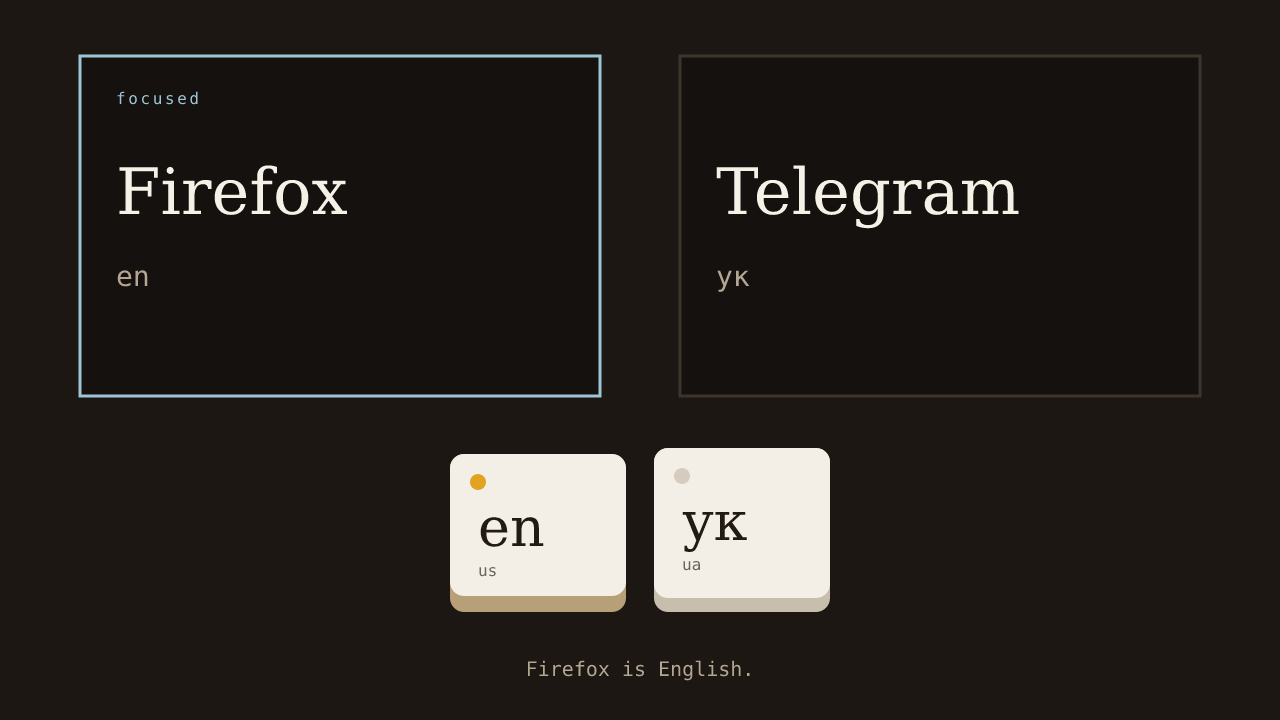
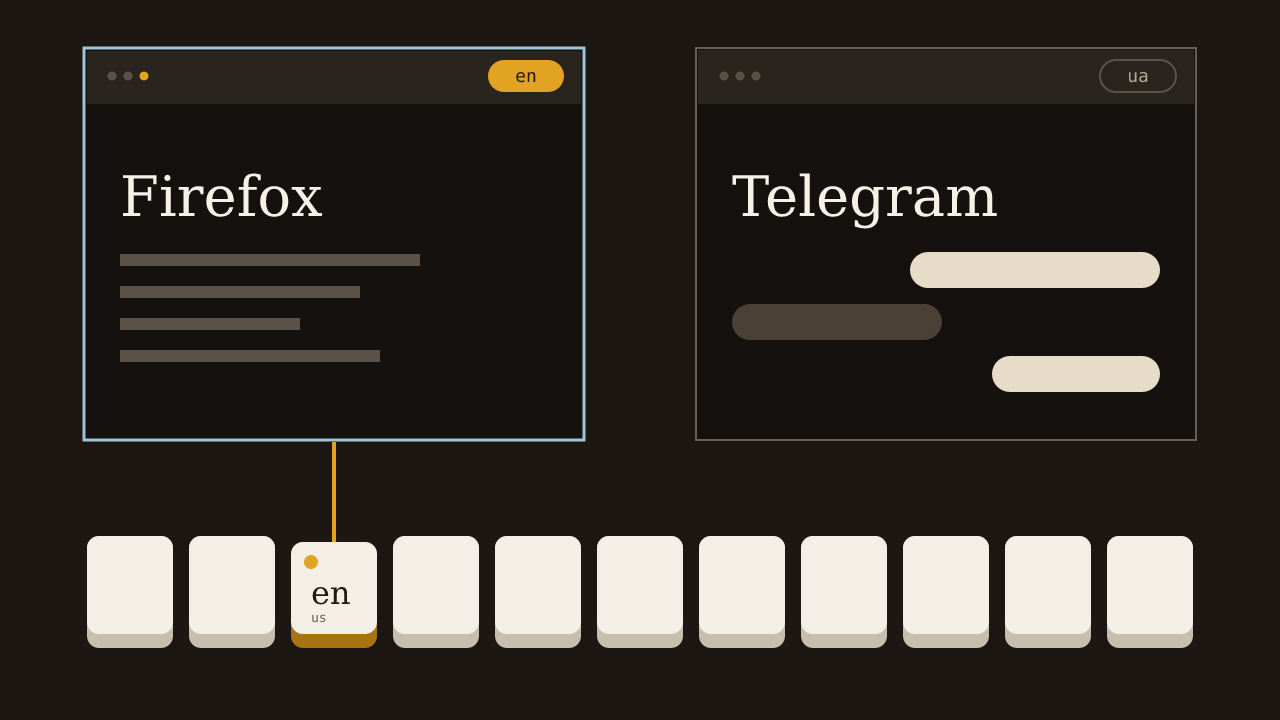
docs: tie the lit key to the focused window

diff --git a/README.md b/README.md
@@ -1,10 +1,10 @@
 <div align="center">
 
-<img src="assets/banner.png" alt="Firefox focused in English, Telegram still on Ukrainian, English key lit" width="100%">
+<img src="assets/banner.png" alt="Firefox in English, its key lit on the keyboard. Telegram still on ua." width="100%">
 
 <br>
 
-<img src="assets/logo.png" alt="Focused window with a lit key, beside a window with a quiet key" width="96">
+<img src="assets/logo.png" alt="Focused window with a lit key, a second window behind it" width="96">
 
 # swaylingo
 
